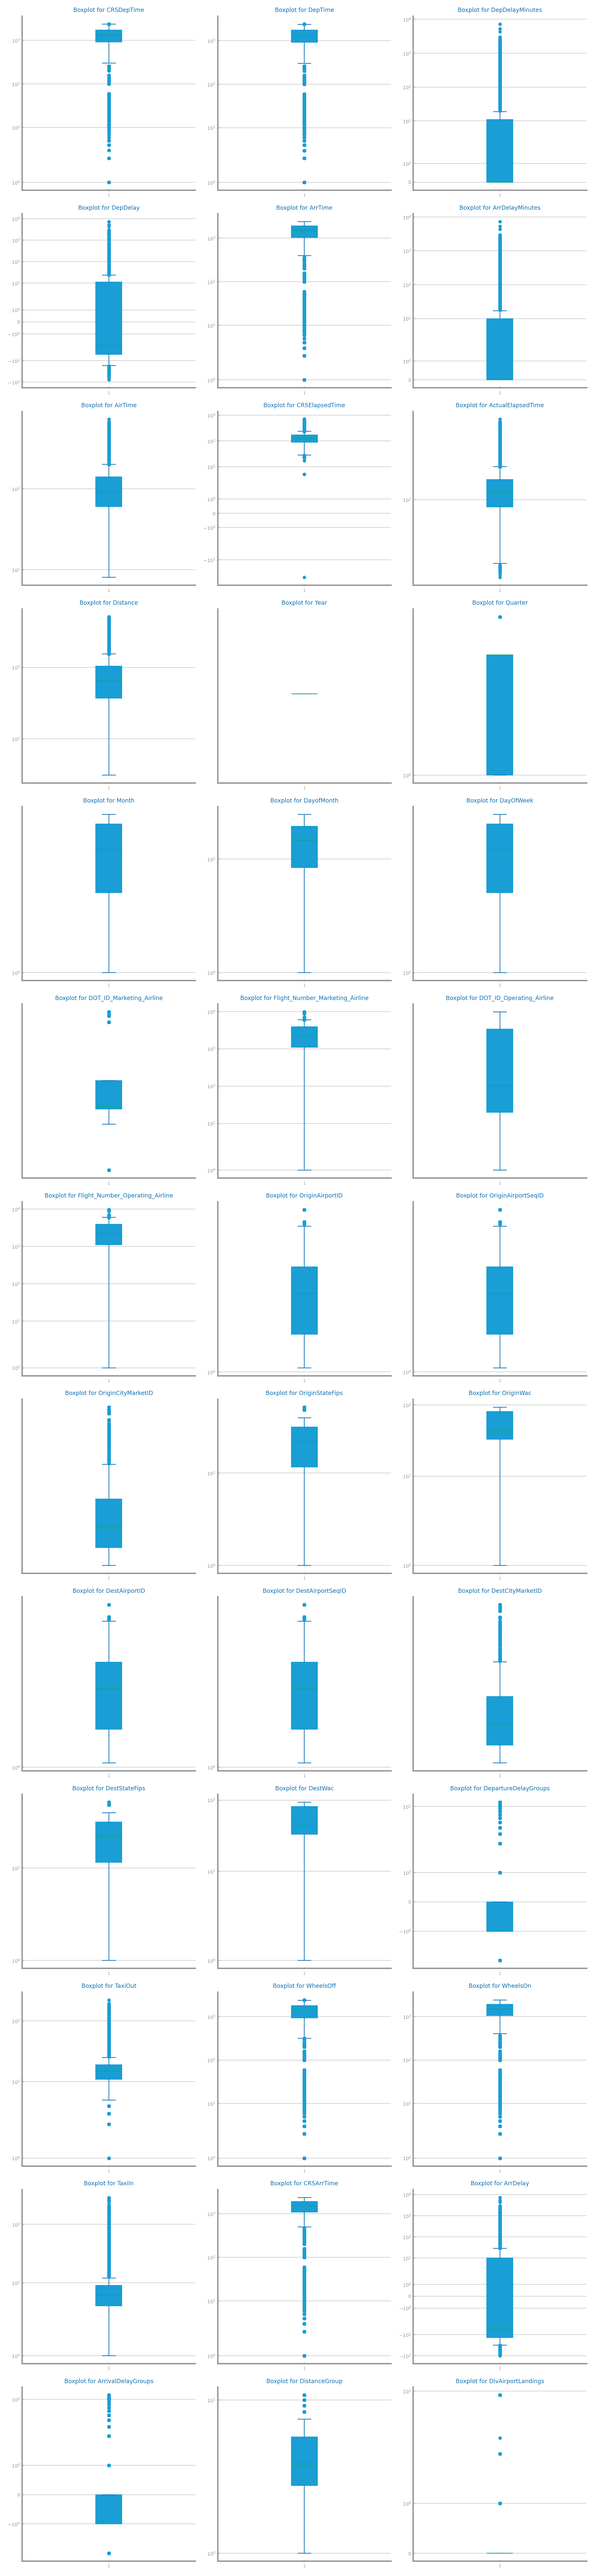
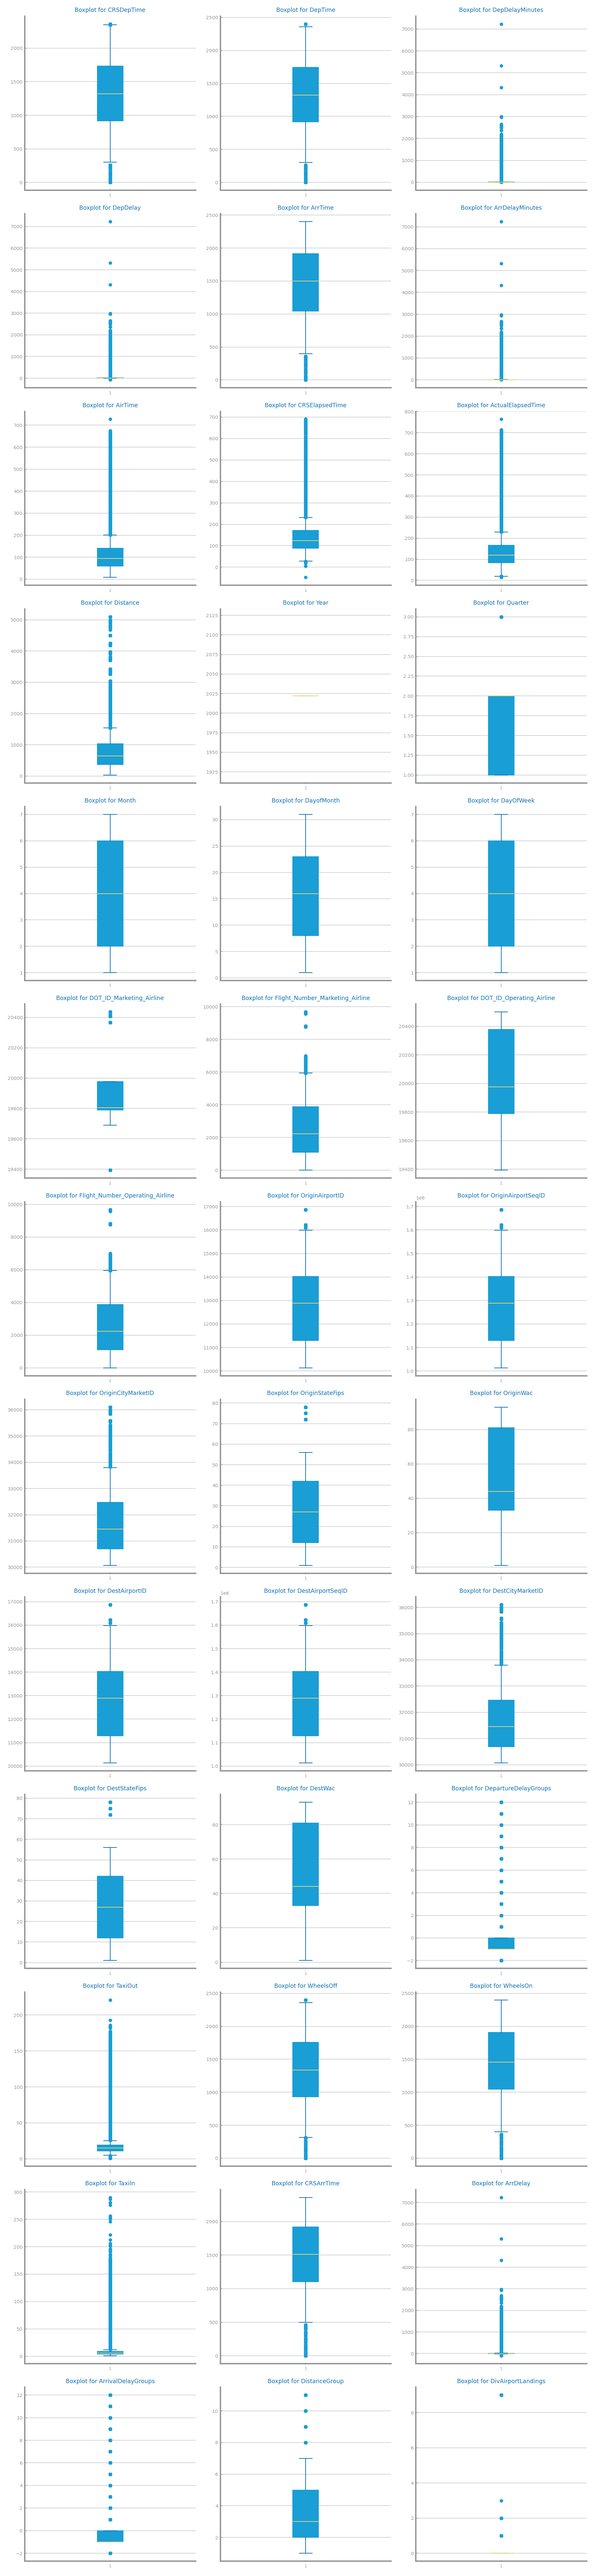
Feat: set up things for histograms etc

diff --git a/labs/lab2/distribution.py b/labs/lab2/distribution.py
@@ -15,17 +15,17 @@ run_credit_score_global_boxplot: bool = False
 run_credit_score_single_boxplots: bool = False
 run_credit_score_outliers: bool = False
 run_credit_score_histograms: bool = False
-run_credit_score_histograms_with_distributions: bool = True
-run_credit_score_histograms_symbolic: bool = False # check X-axis text
+run_credit_score_histograms_with_distributions: bool = False
+run_credit_score_histograms_symbolic: bool = True # check X-axis text
 run_credit_score_class_distribution: bool = False
 run_sampling = False
 sampling_amount = 0.01
 
-# filename = "../../classification/traffic_accidents.csv"
-# savefig_path_prefix = "images/distribution/traffic_accidents/traffic_accidents"
+filename = "../../classification/traffic_accidents.csv"
+savefig_path_prefix = "images/distribution/traffic_accidents/traffic_accidents"
 
-filename = "../../classification/Combined_Flights_2022.csv"
-savefig_path_prefix = "images/distribution/Combined_Flights_2022/Combined_Flights_2022"
+# filename = "../../classification/Combined_Flights_2022.csv"
+# savefig_path_prefix = "images/distribution/Combined_Flights_2022/Combined_Flights_2022"
 
 # Create output directory if it doesn't exist
 os.makedirs(os.path.dirname(savefig_path_prefix), exist_ok=True)
@@ -79,7 +79,7 @@ if credit_score_numeric and run_credit_score_single_boxplots:
     )
     i, j = 0, 0
     for n in range(len(credit_score_numeric)):
-        axs[i, j].set_yscale('symlog')
+        axs[i, j].set_yscale('linear')
         axs[i, j].set_title("Boxplot for %s" % credit_score_numeric[n])
         axs[i, j].boxplot(credit_score_data[credit_score_numeric[n]].dropna().values)
         i, j = (i + 1, 0) if (n + 1) % cols == 0 else (i, j + 1)
@@ -150,9 +150,9 @@ if credit_score_numeric and run_credit_score_histograms:
             ylabel="nr records",
         )
         if credit_score_numeric[n] == "MonthlyBalance":
-            axs[i, j].hist(data, bins=1000)
+            axs[i, j].hist(data, bins=1000, log=True)
         else:
-            axs[i, j].hist(data, "auto")
+            axs[i, j].hist(data, "auto", log=True)
         i, j = (i + 1, 0) if (n + 1) % cols == 0 else (i, j + 1)
     plt.tight_layout()
     plt.savefig(f"{savefig_path_prefix}_single_histograms_numeric.png")
